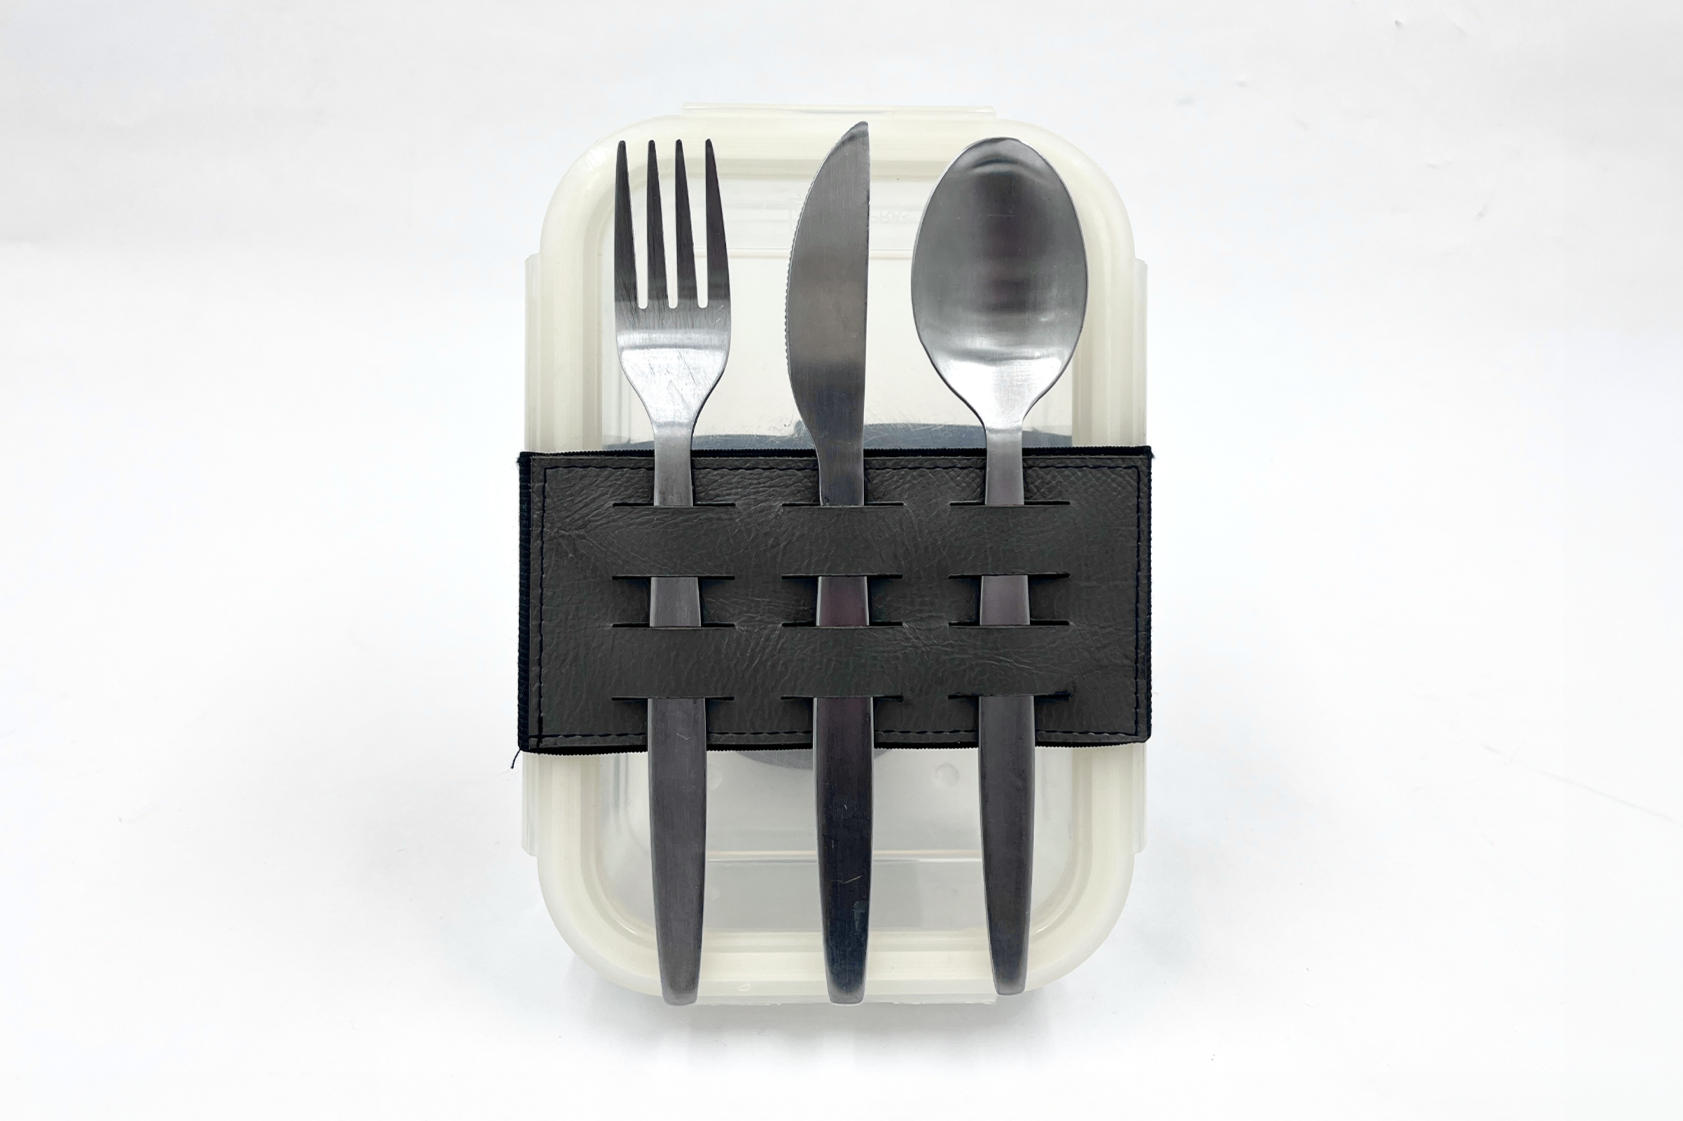
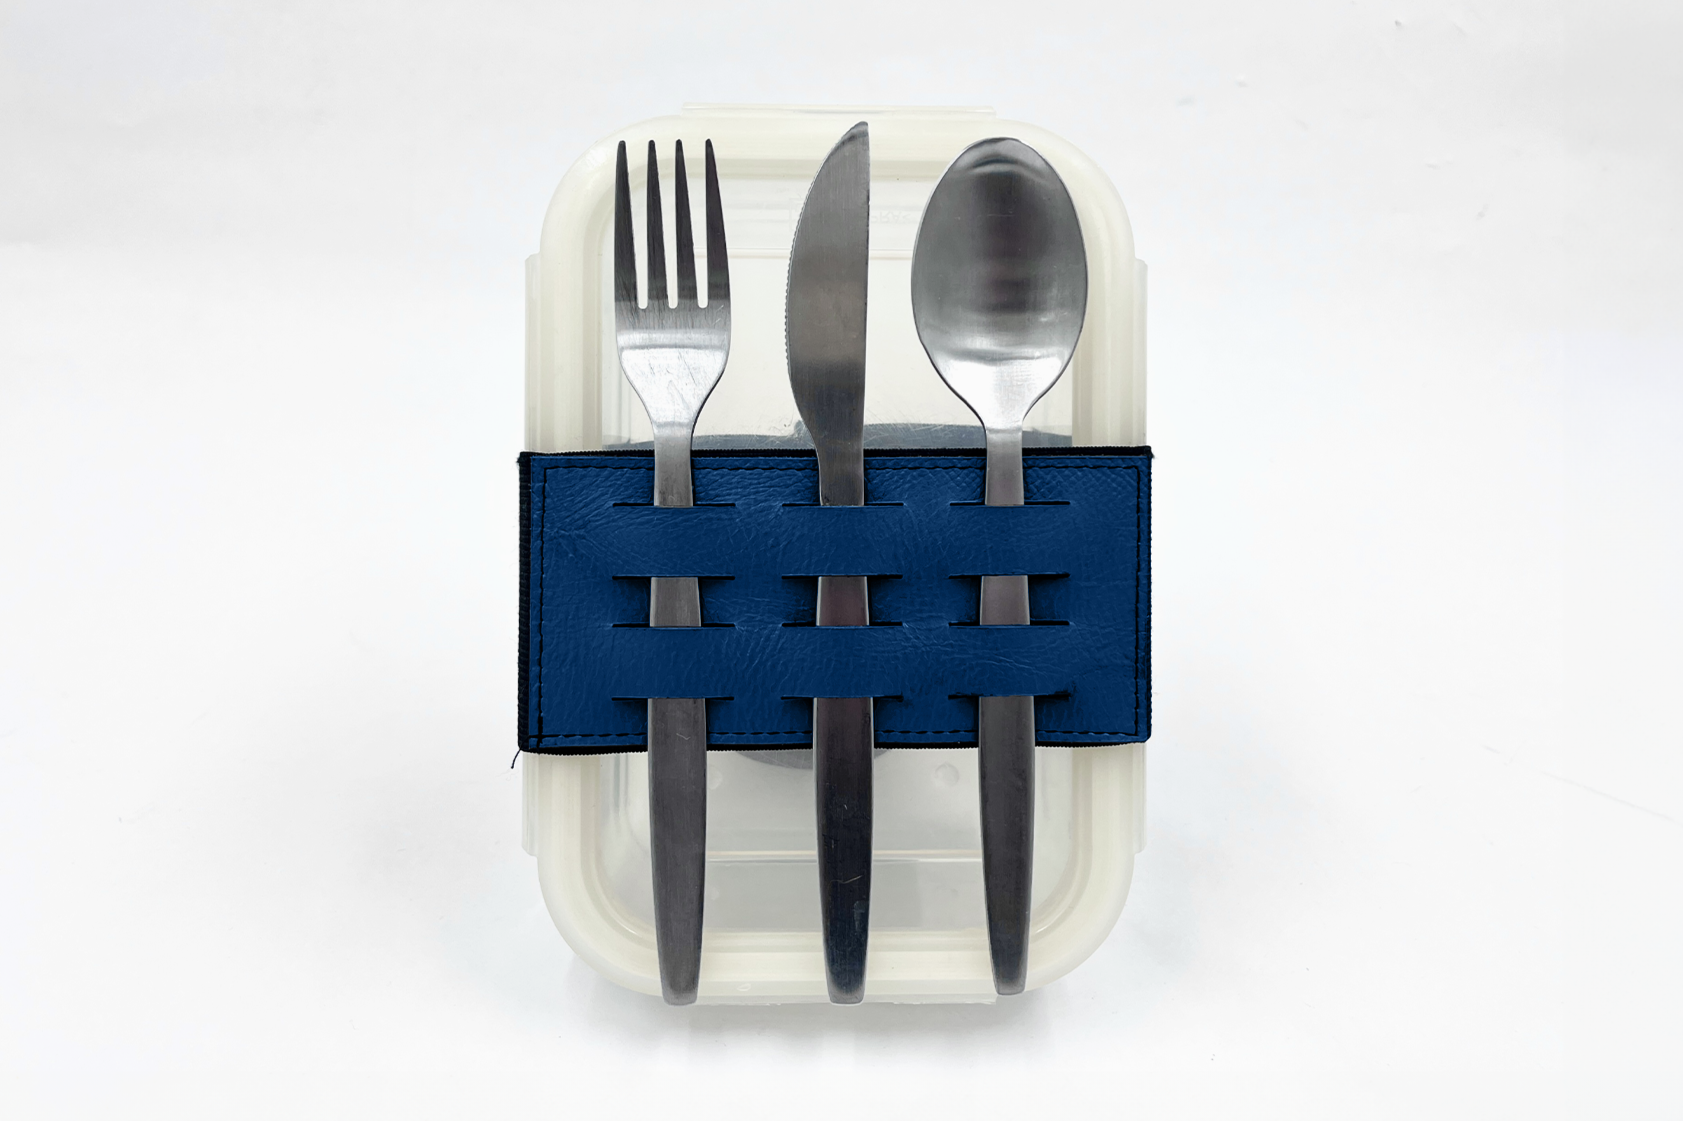
sz

Changed region(s): [[0.309, 0.4059, 0.6797, 0.6869]]

diff --git a/elastup.html b/elastup.html
@@ -59,12 +59,39 @@
             </h2>
             <div class="intro">
                 <p class="presentation">
-                    Coming soon ...
+                    Elastup is a multipurpose cutlery holder designed for lunch boxes, combining functionality
+                    with a touch of elegance. 
+                    Launched on April 03, 2025, on Kickstarter, this product features a durable elastic band 
+                    paired with a piece of leather, offering a minimalist solution for organizing utensils on the go. <br>
+                    In addition to its primary use, Elastup can also be used on tablets or notebooks to hold pens, making it a versatile
+                    accessory. 
                 </p>
                 <div class="vision">
-                    <img src="images/Elastup/Elastup1.png" alt="Vision">
+                    <img src="images/Elastup/Colors.JPG" alt="Vision">
                 </div>
                 
+            </div>
+
+            <div class="presentation1">
+                <p>
+                    Perfectly adaptable, it can be wrapped around lunchboxes, tablets, notebooks, or any other personal items, 
+                    offering a practical way to keep everything in place. 
+                    Whether you're at school, the office, or on the go, the Elastup is designed to adapt to your needs. 
+                    Available in 3 colors —Red, Black and Blue— the Elastup invites creativity and personal customization to suit your unique style. <br>
+                    <br>
+                </p>
+            </div>
+
+            <div class="image-container">
+                <div>
+                    <img src="images/Elastup/Ipad1.JPG" alt="Ipad1" class="responsive-media" />
+                </div>
+                <div>
+                    <img src="images/Elastup/Colors.JPG" alt="Colors" class="responsive-media" />
+                </div>
+                <div>
+                    <img src="images/Elastup/Note1.JPG" alt="Note1" class="responsive-media" />
+                </div>
             </div>
 
             

diff --git a/projects.html b/projects.html
@@ -101,12 +101,11 @@
             <div>
                 <h2 class="subT"> Elastup </h2>
                 <p style="font-size: 18px;">
-                    ElastUp is a multipurpose cutlery holder designed for lunch boxes, combining functionality
-                    with a touch of elegance. Planned for launch on April 03, 2025, via Kickstarter, this innovative
-                    product features a durable elastic band paired with a piece of leather, offering a 
-                    minimalist solution for organizing utensils on the go. <br>
-                    In addition to its primary use,
-                    ElastUp can also be used on iPads or notebooks to hold pens, making it a versatile
+                    Elastup is a multipurpose cutlery holder designed for lunch boxes, combining functionality
+                    with a touch of elegance. 
+                    Launched on April 03, 2025, on Kickstarter, this product features a durable elastic band 
+                    paired with a piece of leather, offering a minimalist solution for organizing utensils on the go. <br>
+                    In addition to its primary use, Elastup can also be used on tablets or notebooks to hold pens, making it a versatile
                     accessory.
                 </p>
 
